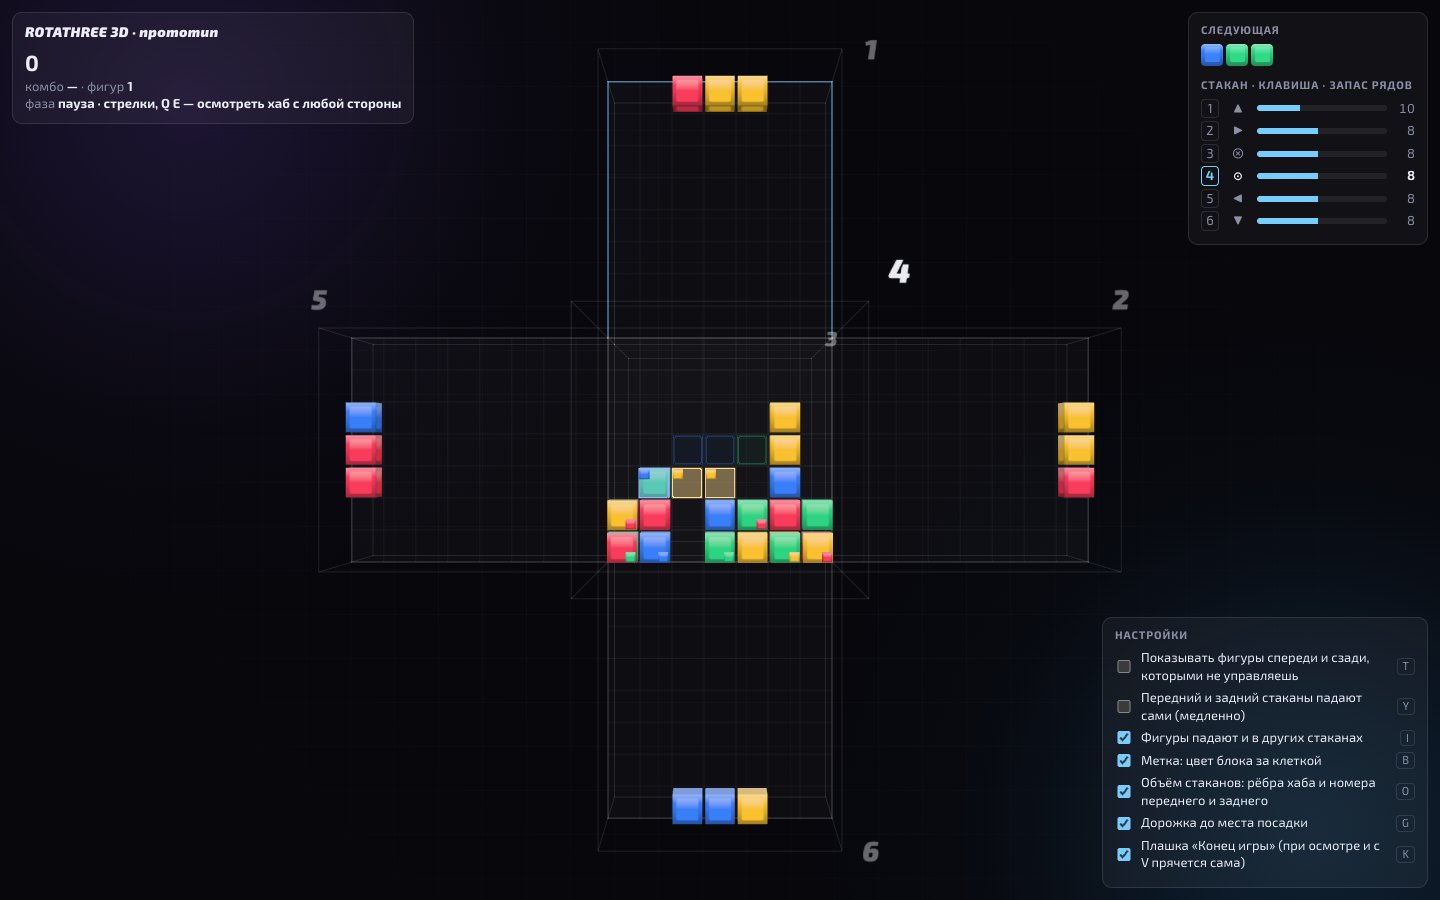
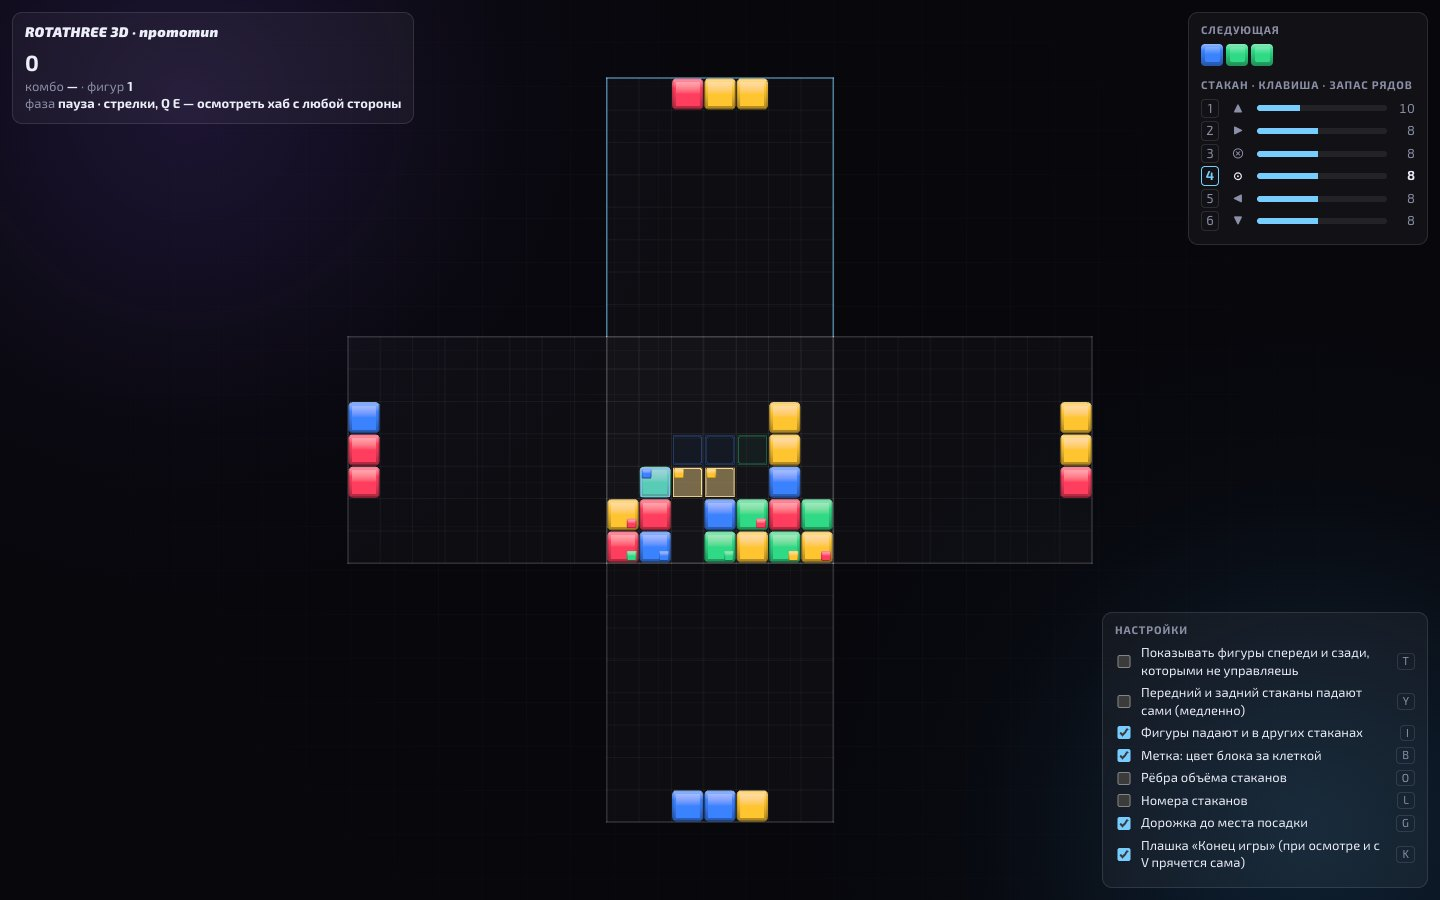
Draw the 3D prototype's blocks as the game's rounded tiles
The blocks were square cubes seen in perspective: away from the middle
they showed a side and looked skewed, the faces were shaded, and a wide
gap ran between them. Now each block is a cube with rounded edges whose
face, seen straight on, is the 2D sprite: the rounded rim graded from
light at the top of the screen to dark at the bottom, a flat face of the
plain colour with a shine across its top, and a narrow gap. The flat
picture is drawn with an orthographic eye, so no block shows a side; it
eases into perspective only while the hub is open, the cross's own plane
keeping its size.

The edges of the hub and the glasses' numbers are separate settings now
(O and L), both off by default.

diff --git a/webapp/proto3d/main.js b/webapp/proto3d/main.js
@@ -15,6 +15,7 @@ import * as THREE from 'three';
 import { LineSegments2 } from 'three/examples/jsm/lines/LineSegments2.js';
 import { LineSegmentsGeometry } from 'three/examples/jsm/lines/LineSegmentsGeometry.js';
 import { LineMaterial } from 'three/examples/jsm/lines/LineMaterial.js';
+import { RoundedBoxGeometry } from 'three/examples/jsm/geometries/RoundedBoxGeometry.js';
 import '@fontsource/exo-2/400.css';
 import '@fontsource/exo-2/700.css';
 import '@fontsource/exo-2/900-italic.css';
@@ -70,7 +71,8 @@ const SETTINGS = [
   { id: 'depthFalls', key: 'KeyY', label: 'Передний и задний стаканы падают сами (медленно)', initial: false },
   { id: 'inactiveFalls', key: 'KeyI', label: 'Фигуры падают и в других стаканах', initial: true },
   { id: 'behind', key: 'KeyB', label: 'Метка: цвет блока за клеткой', initial: true },
-  { id: 'volume', key: 'KeyO', label: 'Объём стаканов: рёбра хаба и номера переднего и заднего', initial: true },
+  { id: 'edges', key: 'KeyO', label: 'Рёбра объёма стаканов', initial: false },
+  { id: 'numbers', key: 'KeyL', label: 'Номера стаканов', initial: false },
   { id: 'lane', key: 'KeyG', label: 'Дорожка до места посадки', initial: true },
   { id: 'gameOverBanner', key: 'KeyK', label: 'Плашка «Конец игры» (при осмотре и с V прячется сама)', initial: true },
 ];
@@ -246,8 +248,7 @@ const drawLabels = () => labels.forEach(({ sprite, canvas: label }, side) => {
 // depth can be squashed flat.
 const MAX_CUBES = N * N * N + 64;
 
-function cubeLayer(material, attributes, renderOrder) {
-  const geometry = new THREE.BoxGeometry(1, 1, 1);
+function cubeLayer(material, attributes, renderOrder, geometry = new THREE.BoxGeometry(1, 1, 1)) {
   const buffers = {};
   for (const [name, size] of Object.entries(attributes)) {
     buffers[name] = new THREE.InstancedBufferAttribute(new Float32Array(MAX_CUBES * size), size);
@@ -264,9 +265,18 @@ function cubeLayer(material, attributes, renderOrder) {
 
 const sharedUniforms = {
   screenUp: { value: new THREE.Vector3(0, 1, 0) },
-  light: { value: new THREE.Vector3(0.2, 0.45, 1).normalize() },
 };
 
+/** How much of a cell a block fills, and how round its edges are: the 2D
+ * sprite is a rounded tile with a narrow gap round it. */
+const TILE = 0.96;
+const ROUND = 0.13;
+
+// The game's block in 3D: a cube with rounded edges. Seen face on it is the
+// 2D sprite — the rounded rim graded from light at the top of the screen
+// through the colour to dark at the bottom, around a flat face of the plain
+// colour with a soft shine across its top. Faces turned from the eye are a
+// little darker, so that the hub reads as solid while it is open.
 const solid = cubeLayer(new THREE.ShaderMaterial({
   uniforms: sharedUniforms,
   vertexShader: /* glsl */ `
@@ -275,61 +285,58 @@ const solid = cubeLayer(new THREE.ShaderMaterial({
     attribute vec3 aLight;
     attribute vec3 aDark;
     attribute vec2 aLook;
-    varying vec3 vLocal;
-    varying vec3 vNormal;
+    varying vec3 vObjectNormal;
+    varying vec3 vFaceNormal;
     varying float vUp;
     varying vec3 vBase;
     varying vec3 vLight;
     varying vec3 vDark;
     varying vec2 vLook;
     void main() {
-      vLocal = position;
       vBase = aBase;
       vLight = aLight;
       vDark = aDark;
       vLook = aLook;
       mat4 model = modelMatrix * instanceMatrix;
       mat3 turn = mat3(model);
-      vNormal = normalize(turn * normal);
+      vObjectNormal = normal;
+      // Which face of the cube this point belongs to, rim included.
+      vec3 a = abs(normal);
+      vec3 face = a.x >= a.y && a.x >= a.z ? vec3(sign(normal.x), 0.0, 0.0)
+        : a.y >= a.z ? vec3(0.0, sign(normal.y), 0.0) : vec3(0.0, 0.0, sign(normal.z));
+      vFaceNormal = normalize(turn * face);
       // How far up the screen this point is from the cube's centre.
       vUp = dot(turn * position, screenUp) / length(turn[0]);
       gl_Position = projectionMatrix * viewMatrix * model * vec4(position, 1.0);
     }`,
   fragmentShader: /* glsl */ `
-    uniform vec3 light;
-    varying vec3 vLocal;
-    varying vec3 vNormal;
+    varying vec3 vObjectNormal;
+    varying vec3 vFaceNormal;
     varying float vUp;
     varying vec3 vBase;
     varying vec3 vLight;
     varying vec3 vDark;
     varying vec2 vLook; // brightness, white flash
     void main() {
-      vec3 a = abs(vLocal);
-      // The two coordinates across the face this point is on.
-      vec2 uv = a.x >= a.y && a.x >= a.z ? a.yz : a.y >= a.z ? a.xz : a.xy;
-      // The flat face: a rounded square set into the bevel.
-      const float inset = 0.13;
-      const float radius = 0.07;
-      vec2 q = uv - vec2(0.5 - inset - radius);
-      float sdf = length(max(q, 0.0)) + min(max(q.x, q.y), 0.0) - radius;
-      float aa = fwidth(sdf) + 1e-4;
-      float face = 1.0 - smoothstep(-aa, aa, sdf);
-      // 0 at the top of the block on screen, 1 at its bottom.
-      float y = clamp(0.5 - vUp * 0.98, 0.0, 1.0);
-      vec3 bevel = y < 0.3 ? mix(vLight, vBase, y / 0.3) : mix(vBase, vDark, (y - 0.3) / 0.7);
-      float fy = clamp((y - inset) / (1.0 - 2.0 * inset), 0.0, 1.0);
-      vec3 plain = mix(vBase, vec3(1.0), 0.3 * max(0.0, 1.0 - fy * 2.0));
-      vec3 colour = mix(bevel, plain, face);
-      // A face turned away from the light darkens, so that a leaning tower
-      // of blocks reads as one.
-      colour *= (0.5 + 0.5 * max(dot(normalize(vNormal), light), 0.0)) * vLook.x;
+      vec3 n = normalize(vObjectNormal);
+      // 1 on the flat of a face, 0 on its rounded rim.
+      float flatness = max(max(abs(n.x), abs(n.y)), abs(n.z));
+      float onFace = smoothstep(0.985, 0.999, flatness);
+      // The rim: light at the top of the screen, the colour, dark at the bottom.
+      float y = clamp(0.5 - vUp, 0.0, 1.0);
+      vec3 rim = y < 0.3 ? mix(vLight, vBase, y / 0.3) : mix(vBase, vDark, (y - 0.3) / 0.7);
+      // The face: the plain colour, a shine across its top where it looks at the eye.
+      float toEye = max(vFaceNormal.z, 0.0);
+      float fy = clamp((0.37 - vUp) / 0.74, 0.0, 1.0);
+      vec3 face = mix(vBase, vec3(1.0), 0.34 * max(0.0, 1.0 - fy * 2.0) * toEye);
+      vec3 colour = mix(rim, face, onFace);
+      colour *= clamp(0.72 + 0.28 * toEye + 0.12 * vFaceNormal.y, 0.0, 1.0) * vLook.x;
       colour = mix(colour, vec3(1.0), vLook.y);
       gl_FragColor = vec4(colour, 1.0);
       #include <tonemapping_fragment>
       #include <colorspace_fragment>
     }`,
-}), { aBase: 3, aLight: 3, aDark: 3, aLook: 2 }, 1);
+}), { aBase: 3, aLight: 3, aDark: 3, aLook: 2 }, 1, new RoundedBoxGeometry(1, 1, 1, 3, ROUND));
 
 /** Outlines and see-through cubes: the landing spot, the aiming lane, the
  * sticks in front and behind. Far to near. */
@@ -368,7 +375,7 @@ const clear = cubeLayer(new THREE.ShaderMaterial({
  * while the picture is flat: the sticks in front of and behind the screen
  * are drawn over and under it. `nudge` shifts it on the screen, for the
  * small marks in the corners of cells. */
-function pushSolid(at, color, { brightness = 1, flash = 0, size = 0.91, lift = 0, nudge = null } = {}) {
+function pushSolid(at, color, { brightness = 1, flash = 0, size = TILE, lift = 0, nudge = null } = {}) {
   solid.items.push({ at: at.clone(), size: [size, size, size], lift, nudge, tone: TONES[color], brightness, flash });
 }
 
@@ -440,6 +447,22 @@ function resize() {
   const tan = half / (DISTANCE - H) / Math.min(1, camera.aspect);
   camera.fov = THREE.MathUtils.radToDeg(2 * Math.atan(tan));
   camera.updateProjectionMatrix();
+  perspective.copy(camera.projectionMatrix);
+  // The same size at the cross's own plane, with nothing seen from the side.
+  const high = DISTANCE * Math.tan(THREE.MathUtils.degToRad(camera.fov / 2));
+  const wide = high * camera.aspect;
+  orthographic.makeOrthographic(-wide, wide, high, -high, camera.near, camera.far);
+}
+
+/** The flat picture is drawn straight on, like the 2D game — no block shows
+ * a side, however far it is from the middle. As the hub opens up the eye
+ * eases into perspective; the cross's own plane keeps its size throughout. */
+const perspective = new THREE.Matrix4();
+const orthographic = new THREE.Matrix4();
+function project(opened) {
+  const e = camera.projectionMatrix.elements;
+  for (let i = 0; i < 16; i++) e[i] = orthographic.elements[i] + (perspective.elements[i] - orthographic.elements[i]) * opened;
+  camera.projectionMatrixInverse.copy(camera.projectionMatrix).invert();
 }
 window.addEventListener('resize', resize);
 
@@ -850,12 +873,12 @@ function buildBlocks(dt) {
   hub.forEachBlock((p, color, index) => {
     if (falling.has(index)) return;
     let flash = 0;
-    let size = 0.91;
+    let size = TILE;
     if (matched?.has(index)) {
       if (phase === 'matching') flash = 0.25 + 0.4 * Math.sin(progress * Math.PI);
       if (phase === 'clearing') {
         flash = 0.6;
-        size = 0.91 * (1 - progress);
+        size = TILE * (1 - progress);
       }
     }
     const landed = flashes.get(index);
@@ -1050,16 +1073,16 @@ function frame(now) {
   cross.traverse((object) => {
     if (object.material) object.material.opacity = object.material.userData.opacity * shown;
   });
-  // With the volume setting off nothing but V hints at the glasses in front
-  // and behind: it looks like the 2D game, and they are kept in mind.
-  const volume = options.volume || opened > 0.02;
+  project(opened);
+  // The edges of the hub and the glasses' numbers only when asked for: with
+  // them off it looks like the 2D game, and the other glasses are kept in
+  // mind.
   hubLines.forEach((line) => {
-    line.visible = volume;
+    line.visible = options.edges;
     line.material.opacity = 0.1 + 0.25 * opened;
   });
   labels.forEach(({ sprite }, side) => {
-    const alongSight = Math.abs(new THREE.Vector3(...normalOf(side)).applyQuaternion(turned).z) > 0.5;
-    sprite.visible = volume || !alongSight;
+    sprite.visible = options.numbers;
     sprite.material.opacity = side === game.active ? 0.95 : 0.4;
   });
   // The game-over banner keeps out of the way of a look around.

diff --git a/webapp/proto3d/NOTES.md b/webapp/proto3d/NOTES.md
@@ -66,7 +66,15 @@ the game there with no warning.
 After review the rules follow what the screen shows.
 
 - **The picture.** The hub seen along the line of sight: each cell shows the
-  nearest block behind it, drawn solid as in 2D. Nothing is see-through. A
+  nearest block behind it, drawn solid as in 2D. Nothing is see-through.
+  The flat picture is drawn straight on (an orthographic eye), so no block
+  shows a side however far it is from the middle; the eye eases into
+  perspective only while the hub is open.
+- **The blocks** are cubes with rounded edges. Face on, each one is the 2D
+  sprite: a rounded rim graded from light at the top of the screen to dark at
+  the bottom, a flat face of the plain colour with a shine across its top,
+  and a narrow gap between tiles. Open, they read as solid rounded cubes,
+  faces turned from the eye a little darker. A
   small square in a corner of a cell gives the colour of the block behind it:
   what a pop there would show (`01`).
 - **Sticks of the side glasses** live in the middle layer and stop on whatever
@@ -130,9 +138,9 @@ After review the rules follow what the screen shows.
   - let those glasses fall on their own, every 6 s (Y), off;
   - the other glasses dropping on their own (I), on;
   - the colour-behind marks (B), on;
-  - the volume of the glasses (O), on — off hides the edges of the hub and
-    the numbers of the glasses in front and behind, so that it looks like the
-    2D game and they are kept in mind (`15`);
+  - the edges of the hub (O) and the glasses' numbers (L), both off: it
+    looks like the 2D game, and the other glasses are kept in mind (`15` has
+    them off);
   - the aiming lane (G), on;
   - the game-over banner (K), on.
 
